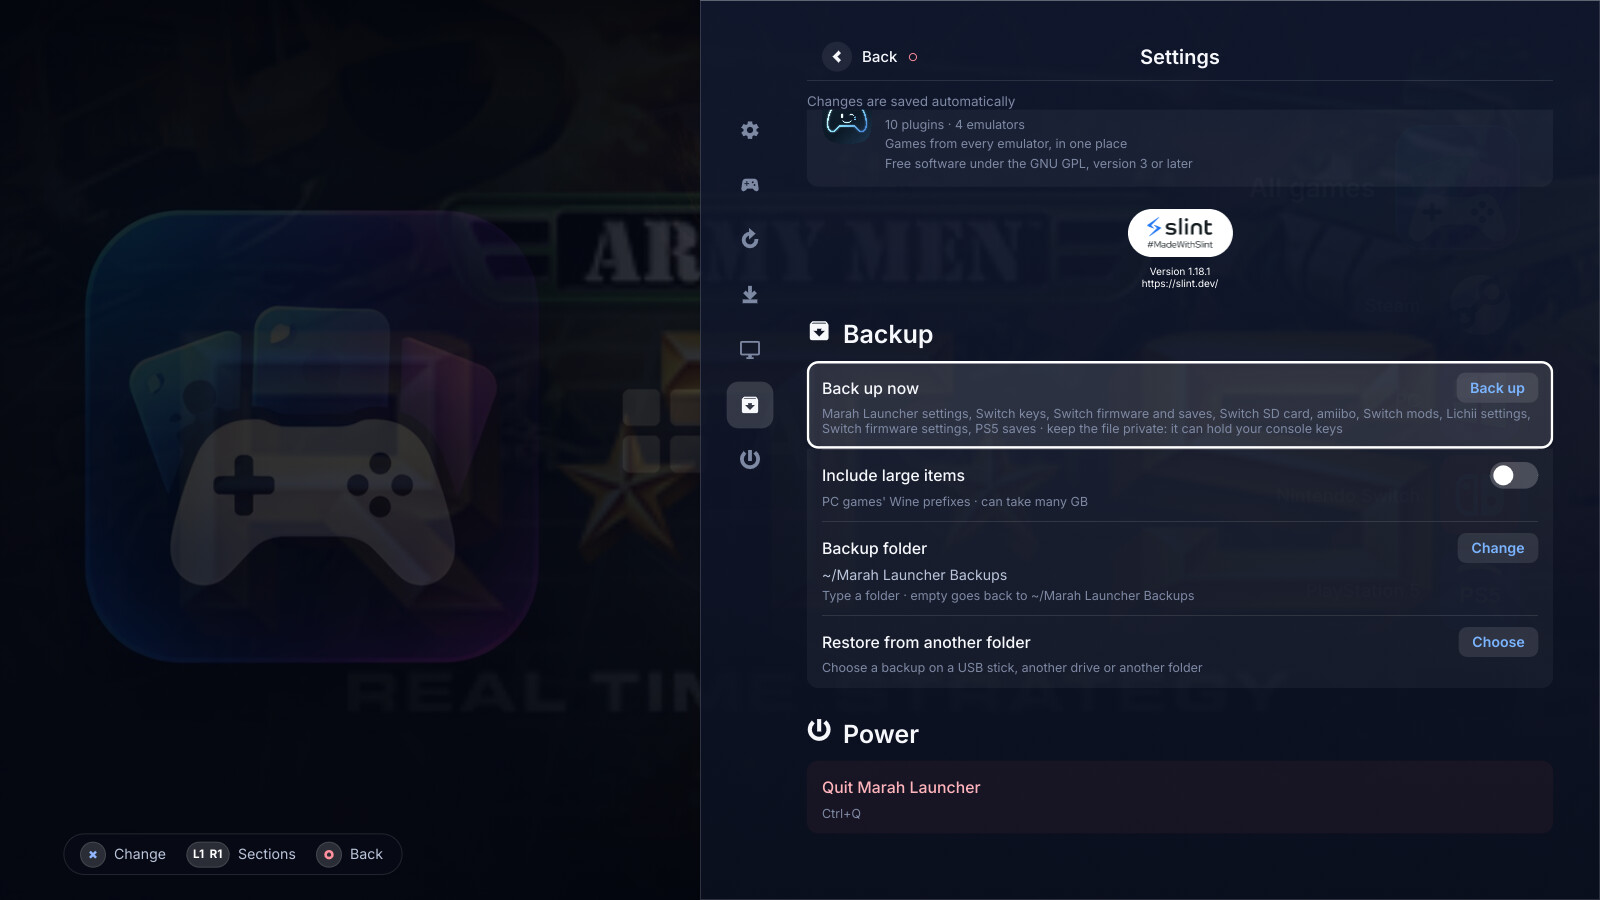
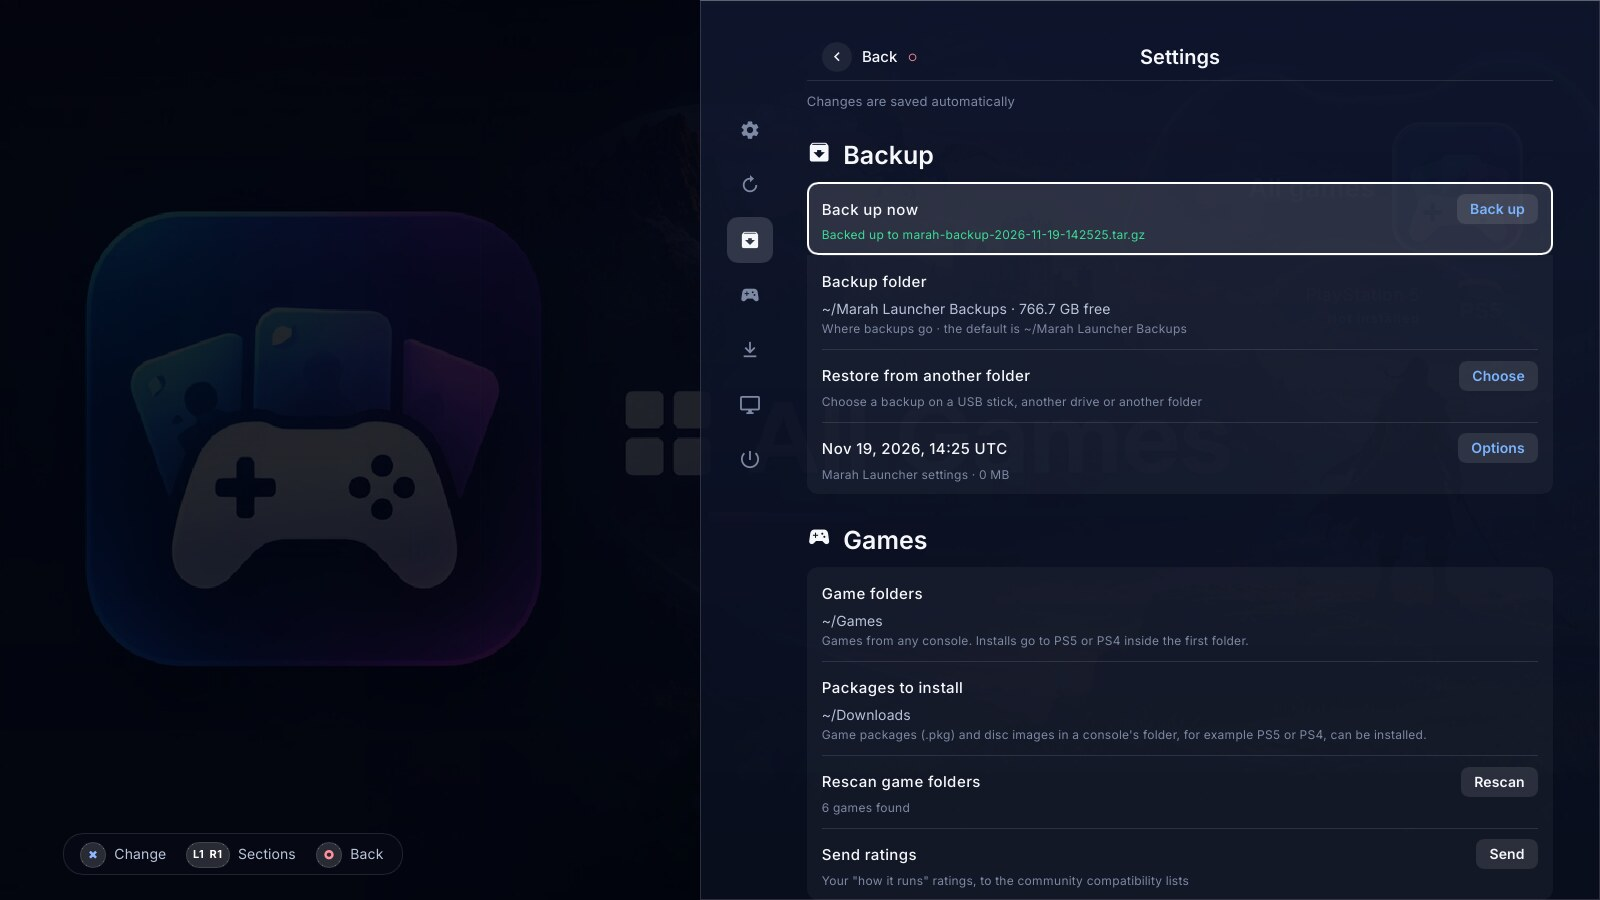
docs: the docs and screenshots show the new Settings, drives and folder browser

diff --git a/docs/players/getting-started.md b/docs/players/getting-started.md
@@ -21,7 +21,8 @@ hundred MB. To install each emulator on its first play instead, turn off Setting
 ## Where your games come from
 
 The launcher looks for games in `~/Games` and for packages to install in `~/Downloads`. To
-change the folders, go to Settings → Games. Separate several folders with `;`.
+change the folders, go to Settings → Games: ✕ on a folder setting opens its list, where you add
+a folder from this PC or a drive, type a path, or remove one.
 
 A game reaches your Library in one of these ways:
 

diff --git a/docs/players/backup.md b/docs/players/backup.md
@@ -59,7 +59,7 @@ starts during one. When one can't start, the message says why:
 
 ## The folder browser
 
-![The folder browser](../screenshots/backup-browser.jpg)
+![The folder browser](../screenshots/folder-browser.jpg)
 
 **Restore from another folder** opens the folder browser over the whole screen. It opens at the
 last folder you restored from, or else at the backup folder. It is the same folder browser that
